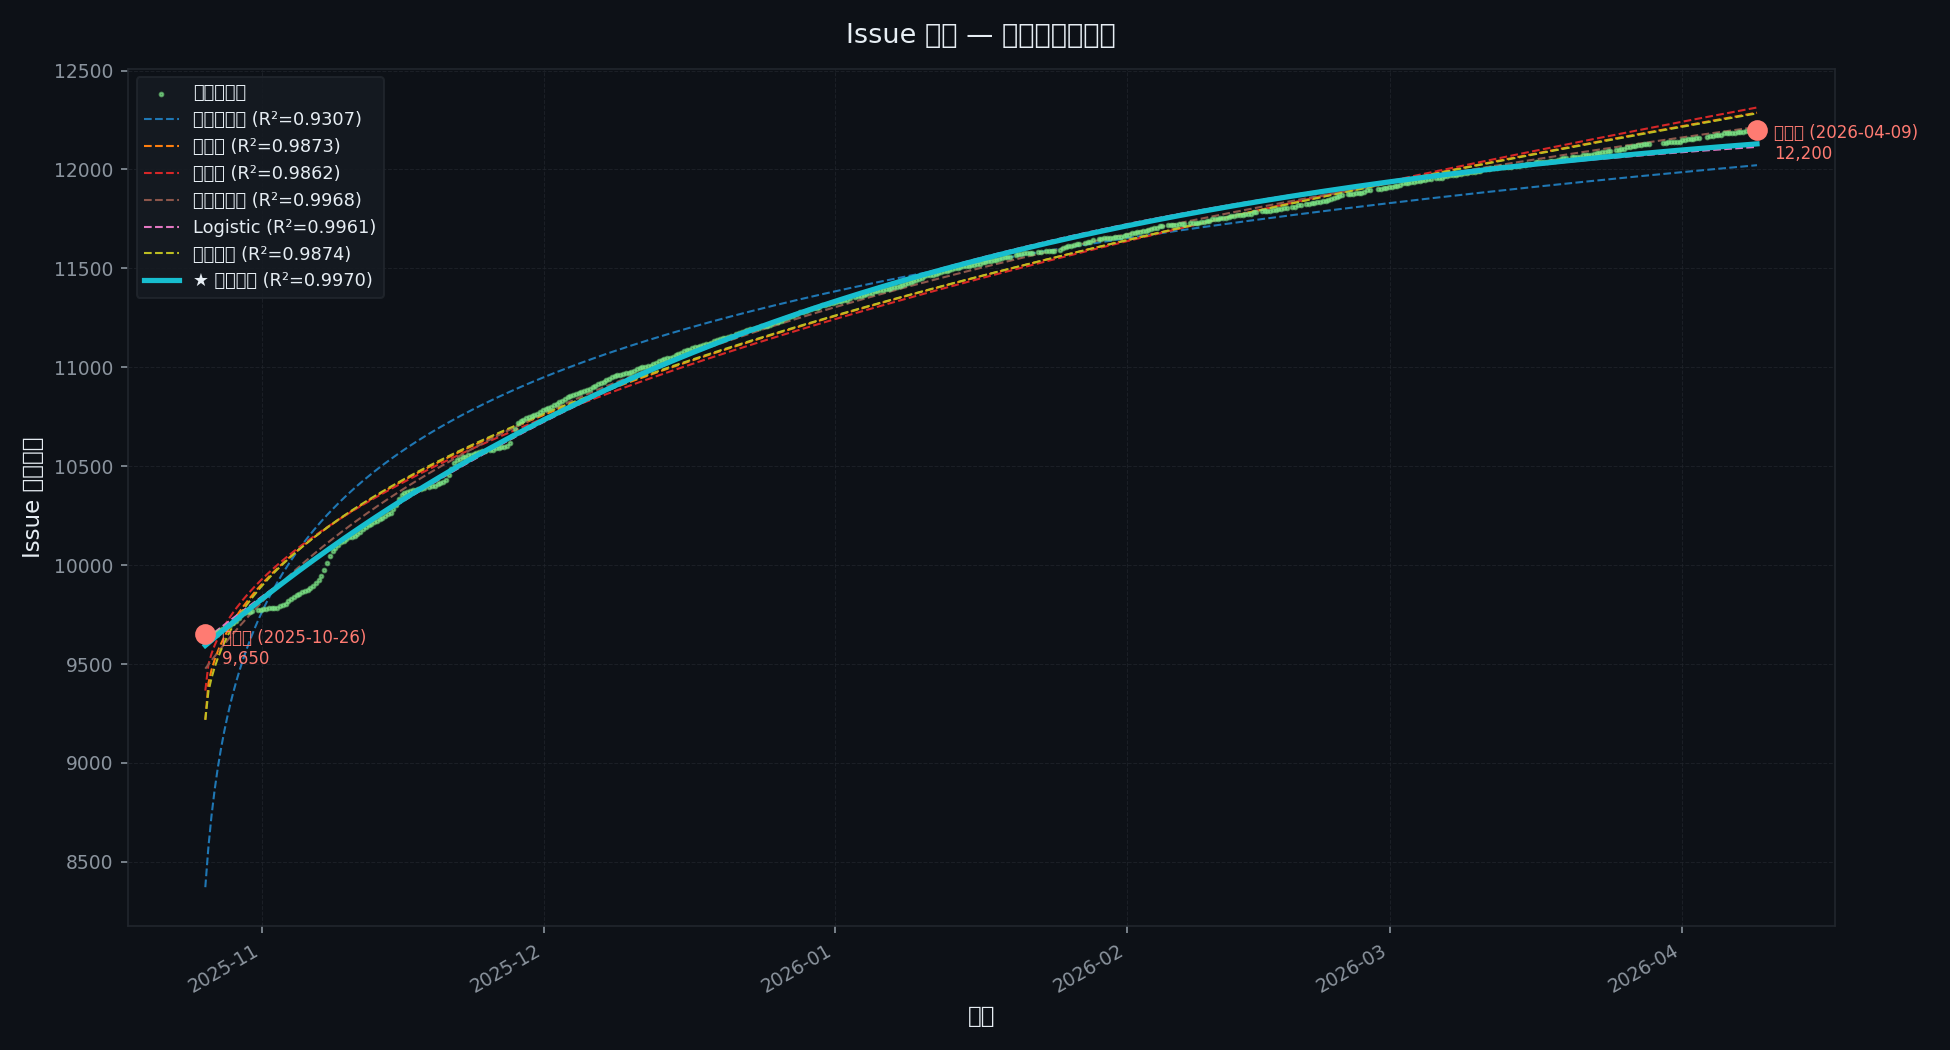
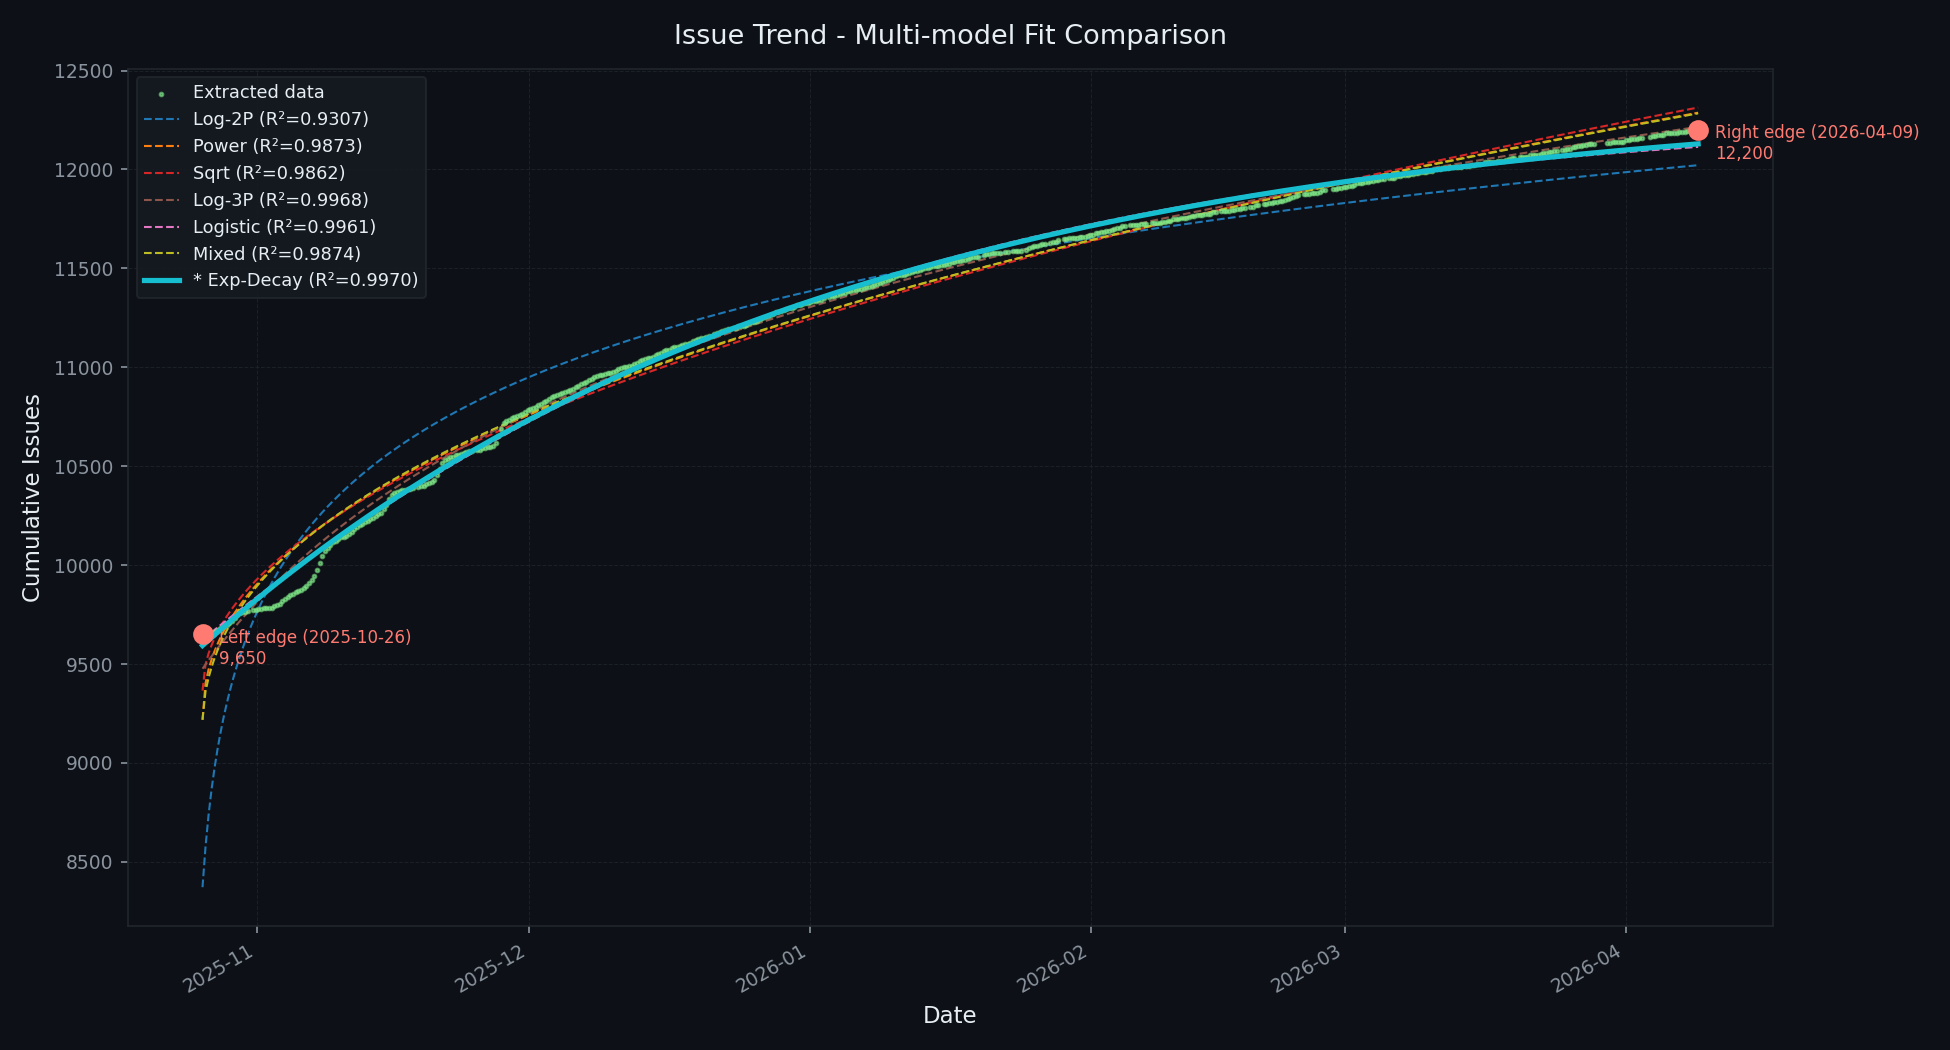
Fix Chinese font fallback; add GitHub Actions workflow and README
Agent-Logs-Url: https://github.com/RobinKool888/fortest/sessions/1ea51b34-3669-488e-a3a4-b965c724b992

diff --git a/issue_forecast.py b/issue_forecast.py
@@ -63,26 +63,46 @@ MUTED_TEXT  = "#8b949e"
 
 
 # ─────────────────────────────────────────────
-# 0. 字体配置（中文支持）
+# 0. Font setup — CJK-aware with English fallback
 # ─────────────────────────────────────────────
-def _setup_font():
-    candidates = [
-        "Noto Sans CJK SC", "WenQuanYi Micro Hei", "SimHei",
-        "PingFang SC", "Microsoft YaHei", "DejaVu Sans",
+def _setup_font() -> bool:
+    """
+    Try to configure a CJK-capable font.
+    Returns True if a CJK font was found, False otherwise.
+    When False, all chart text should use English to avoid □ boxes.
+    """
+    cjk_candidates = [
+        "Noto Sans CJK SC", "Noto Sans CJK TC",
+        "WenQuanYi Micro Hei", "WenQuanYi Zen Hei",
+        "SimHei", "SimSun", "PingFang SC", "Microsoft YaHei",
+        "Source Han Sans CN", "Source Han Sans SC",
     ]
     available = {f.name for f in fm.fontManager.ttflist}
-    for c in candidates:
+
+    for c in cjk_candidates:
         if c in available:
             rcParams["font.family"] = c
-            return
-    for f in fm.fontManager.ttflist:
-        if any(kw in f.name.lower() for kw in ("cjk", "chinese", "wqy", "noto")):
-            rcParams["font.family"] = f.name
-            return
-    rcParams["font.family"] = "DejaVu Sans"
+            return True
 
-_setup_font()
+    # Broader scan for any CJK font the system may have
+    for f in fm.fontManager.ttflist:
+        name_lower = f.name.lower()
+        if any(kw in name_lower for kw in ("cjk", "chinese", "wqy", "noto", "simsun", "simhei")):
+            rcParams["font.family"] = f.name
+            return True
+
+    # No CJK font found — fall back to default; use English labels in charts
+    rcParams["font.family"] = "DejaVu Sans"
+    return False
+
+
+_CJK_OK: bool = _setup_font()
 rcParams["axes.unicode_minus"] = False
+
+
+def _L(zh: str, en: str) -> str:
+    """Return the Chinese string when a CJK font is available, English otherwise."""
+    return zh if _CJK_OK else en
 
 
 # ─────────────────────────────────────────────
@@ -208,19 +228,19 @@ def model_exp_decay(t, a, b, c):
 
 def _make_models(y0: float, y1: float) -> dict:
     """
-    根据数据范围动态生成模型初始猜测值，提高拟合鲁棒性。
-    y0 = 数据起点值, y1 = 数据终点值
+    Build model definitions with initial guesses derived from the data range.
+    y0 = starting value, y1 = ending value
     """
-    delta = abs(y1 - y0)
-    t_half = 90  # 假设约 90 天到增量一半
+    delta  = abs(y1 - y0)
+    t_half = 90  # assume ~90 days to reach half the total increment
     return {
-        "两参数对数": (model_log2,    [y0, delta],               {}),
-        "幂函数":     (model_power,   [y0, delta * 0.5, 0.4],    {}),
-        "平方根":     (model_sqrt,    [y0, delta * 0.1],         {}),
-        "三参数对数": (model_log3,    [y0 * 0.6, delta, 5.0],    {}),
-        "Logistic":   (model_logistic,[y1 * 1.05, 0.015, t_half],{}),
-        "混合模型":   (model_mixed,   [y0, delta * 0.05, delta * 0.3], {}),
-        "减速指数":   (model_exp_decay,[y1 * 1.05, delta * 1.2, 0.015], {}),
+        _L("两参数对数", "Log-2P"):    (model_log2,       [y0, delta],                    {}),
+        _L("幂函数",     "Power"):     (model_power,      [y0, delta * 0.5, 0.4],         {}),
+        _L("平方根",     "Sqrt"):      (model_sqrt,       [y0, delta * 0.1],              {}),
+        _L("三参数对数", "Log-3P"):    (model_log3,       [y0 * 0.6, delta, 5.0],         {}),
+        "Logistic":                    (model_logistic,   [y1 * 1.05, 0.015, t_half],     {}),
+        _L("混合模型",   "Mixed"):     (model_mixed,      [y0, delta * 0.05, delta * 0.3],{}),
+        _L("减速指数",   "Exp-Decay"): (model_exp_decay,  [y1 * 1.05, delta * 1.2, 0.015],{}),
     }
 
 
@@ -378,12 +398,12 @@ def _plot_fit_comparison(
     _dark_axes(ax)
 
     ax.scatter(df["date"], y_vals, color=GREEN_LITE, s=3, alpha=0.6,
-               zorder=3, label="提取数据点")
+               zorder=3, label=_L("提取数据点", "Extracted data"))
 
     # 标注左右端锚点
     for d, c, lbl in [
-        (df["date"].iloc[0],  y_vals[0],  f"左端点 ({df['date'].iloc[0].date()})"),
-        (df["date"].iloc[-1], y_vals[-1], f"右端点 ({df['date'].iloc[-1].date()})"),
+        (df["date"].iloc[0],  y_vals[0],  _L(f"左端点 ({df['date'].iloc[0].date()})", f"Left edge ({df['date'].iloc[0].date()})")),
+        (df["date"].iloc[-1], y_vals[-1], _L(f"右端点 ({df['date'].iloc[-1].date()})", f"Right edge ({df['date'].iloc[-1].date()})")),
     ]:
         ax.scatter([d], [c], color="#ff7b72", s=80, zorder=5)
         ax.annotate(f"{lbl}\n{c:,.0f}", (d, c),
@@ -395,13 +415,13 @@ def _plot_fit_comparison(
         y_smooth = info["func"](t_smooth, *info["popt"])
         lw    = 2.5 if name == best_name else 1.0
         ls    = "-"  if name == best_name else "--"
-        label = f"{'★ ' if name == best_name else ''}{name} (R²={info['r2']:.4f})"
+        label = f"{'* ' if name == best_name else ''}{name} (R\u00b2={info['r2']:.4f})"
         ax.plot(smooth_dates, y_smooth, color=color, lw=lw, ls=ls,
                 label=label, zorder=4 if name == best_name else 2)
 
-    ax.set_xlabel("日期", fontsize=11)
-    ax.set_ylabel("Issue 累积数量", fontsize=11)
-    ax.set_title("Issue 趋势 — 多模型拟合对比", fontsize=13, pad=12)
+    ax.set_xlabel(_L("日期", "Date"), fontsize=11)
+    ax.set_ylabel(_L("Issue 累积数量", "Cumulative Issues"), fontsize=11)
+    ax.set_title(_L("Issue 趋势 — 多模型拟合对比", "Issue Trend - Multi-model Fit Comparison"), fontsize=13, pad=12)
     ax.legend(loc="upper left", fontsize=8.5,
               facecolor="#161b22", edgecolor=GRID_COLOR,
               labelcolor=TEXT_COLOR, framealpha=0.85)
@@ -433,8 +453,8 @@ def _plot_model_r2_bar(results: dict, out_path: str):
                 f"{val:.4f}", va="center", ha="right",
                 color=DARK_BG, fontsize=9, fontweight="bold")
     ax.set_xlim(min(r2vals_s) * 0.98, 1.005)
-    ax.set_xlabel("R²", fontsize=10)
-    ax.set_title("各模型拟合优度对比 (R²)", fontsize=12)
+    ax.set_xlabel(_L("R²", "R\u00b2"), fontsize=10)
+    ax.set_title(_L("各模型拟合优度对比 (R²)", "Model Goodness-of-Fit Comparison (R\u00b2)"), fontsize=12)
     fig.tight_layout()
     fig.savefig(out_path, dpi=150, facecolor=DARK_BG)
     plt.close(fig)
@@ -471,9 +491,9 @@ def _plot_forecast(
     pred_mask = np.array(dates_all) >= ref_date
 
     ax.plot(np.array(dates_all)[hist_mask], y_all[hist_mask],
-            color=GREEN_LINE, lw=2, label=f"历史拟合 ({best_name})")
+            color=GREEN_LINE, lw=2, label=_L(f"历史拟合 ({best_name})", f"Historical fit ({best_name})"))
     ax.plot(np.array(dates_all)[pred_mask], y_all[pred_mask],
-            color=CYAN_LINE, lw=2, ls="--", label="预测趋势")
+            color=CYAN_LINE, lw=2, ls="--", label=_L("预测趋势", "Forecast trend"))
 
     ax.scatter(df["date"], y_vals, color=GREEN_LITE, s=3, alpha=0.4, zorder=3)
 
@@ -489,12 +509,15 @@ def _plot_forecast(
         )
 
     ax.axvline(ref_date, color=ORANGE_LINE, lw=1, ls=":", alpha=0.8,
-               label=f"预测起点 ({ref_date.date()})")
+               label=_L(f"预测起点 ({ref_date.date()})", f"Forecast start ({ref_date.date()})"))
 
-    ax.set_xlabel("日期", fontsize=11)
-    ax.set_ylabel("Issue 累积数量", fontsize=11)
+    ax.set_xlabel(_L("日期", "Date"), fontsize=11)
+    ax.set_ylabel(_L("Issue 累积数量", "Cumulative Issues"), fontsize=11)
     ax.set_title(
-        f"Issue 趋势预测  [{best_name}  R²={info['r2']:.4f}]",
+        _L(
+            f"Issue 趋势预测  [{best_name}  R\u00b2={info['r2']:.4f}]",
+            f"Issue Trend Forecast  [{best_name}  R\u00b2={info['r2']:.4f}]",
+        ),
         fontsize=13, pad=12,
     )
     ax.legend(loc="upper left", fontsize=9,
@@ -507,7 +530,7 @@ def _plot_forecast(
     ax2.tick_params(colors=MUTED_TEXT, labelsize=8)
     ylim = ax.get_ylim()
     ax2.set_ylim([(y - ref_count) / ref_count * 100 for y in ylim])
-    ax2.set_ylabel("相对增幅 (%)", color=MUTED_TEXT, fontsize=9)
+    ax2.set_ylabel(_L("相对增幅 (%)", "Relative Growth (%)"), color=MUTED_TEXT, fontsize=9)
     ax2.spines["right"].set_edgecolor(GRID_COLOR)
 
     fig.autofmt_xdate()

diff --git a/README.md b/README.md
@@ -1,0 +1,133 @@
+# Issue Trend Forecast
+
+Digitise a cumulative-issue curve image, fit multiple growth models,
+and generate a numeric + visual forecast.
+
+---
+
+## How it works
+
+| Step | What happens | Output file(s) |
+|------|-------------|----------------|
+| **1 – Extract** | Green-curve pixels are detected and mapped to `(date, count)` using the two edge calibration points you supply | `extracted_data.csv` |
+| **2 – Fit** | Seven growth models are fit; the best R² wins | `fit_comparison.png`, `model_r2_comparison.png` |
+| **3 – Forecast** | All models predict future counts; the winner is charted | `predictions.csv`, `forecast.png` |
+
+---
+
+## Option A — Local deployment
+
+### Prerequisites
+
+```bash
+pip install numpy scipy matplotlib pillow pandas
+```
+
+For Chinese labels in charts, install a CJK font first:
+
+```bash
+# Ubuntu / Debian
+sudo apt-get install fonts-noto-cjk
+
+# macOS (Homebrew)
+brew install --cask font-noto-sans-cjk
+
+# Windows
+# Download and install "Noto Sans CJK SC" from https://fonts.google.com/noto
+```
+
+> **No CJK font?** The script automatically falls back to English labels —
+> no manual configuration needed.
+
+### Run
+
+```bash
+python issue_forecast.py \
+    --image       curve.png \
+    --left-date   2025-10-26 \
+    --left-count  9650 \
+    --right-date  2026-04-09 \
+    --right-count 12200
+```
+
+All five output files are written to the same directory as the image.
+
+### Full argument reference
+
+| Argument | Required | Default | Description |
+|----------|----------|---------|-------------|
+| `--image` | No | `curve.png` (next to script) | Path to the curve PNG |
+| `--left-date` | **Yes** | — | Date at the left edge of the X-axis (`YYYY-MM-DD`) |
+| `--left-count` | **Yes** | — | Issue count at the left edge |
+| `--right-date` | **Yes** | — | Date at the right edge of the X-axis (`YYYY-MM-DD`) |
+| `--right-count` | **Yes** | — | Issue count at the right edge |
+| `--today` | No | `right-date` | Forecast reference / "today" date |
+| `--out-dir` | No | image directory | Directory where outputs are saved |
+| `--future-days` | No | `30 60 90 180 365 730` | Space-separated list of forecast horizons (days) |
+
+---
+
+## Option B — GitHub Actions (online, no local install)
+
+### One-time setup
+
+1. **Push your curve image** to the repository root (default name: `curve.png`).  
+   If you use a different path, pass it via the `image_path` input.
+
+2. The workflow file is already at `.github/workflows/forecast.yml` — no
+   further configuration is needed.
+
+### Running the workflow
+
+1. Go to the repository on GitHub.
+2. Click **Actions** → **Issue Trend Forecast** → **Run workflow**.
+3. Fill in the inputs:
+
+   | Input | Required | Example |
+   |-------|----------|---------|
+   | Left-edge date | **Yes** | `2025-10-26` |
+   | Left-edge count | **Yes** | `9650` |
+   | Right-edge date | **Yes** | `2026-04-09` |
+   | Right-edge count | **Yes** | `12200` |
+   | Forecast date (`today`) | No | `2026-04-14` |
+   | Forecast horizons | No | `30 60 90 180 365 730` |
+   | Image path in repo | No | `curve.png` |
+
+4. Click **Run workflow**.
+
+### Downloading the results
+
+Once the job finishes (usually under 2 minutes):
+
+1. Click the completed run.
+2. Scroll to the **Artifacts** section at the bottom.
+3. Click **forecast-outputs** to download a ZIP containing all five files.
+
+```
+forecast-outputs.zip
+├── extracted_data.csv        ← Step 1: raw digitised curve data
+├── fit_comparison.png        ← Step 2: all-model overlay chart
+├── model_r2_comparison.png   ← Step 2: R² bar chart
+├── predictions.csv           ← Step 3: numeric forecast table
+└── forecast.png              ← Step 3: best-model forecast chart
+```
+
+Artifacts are retained for **30 days**.
+
+---
+
+## Tips
+
+- **Square boxes instead of Chinese text?**  
+  Install a CJK font (see above) or run on GitHub Actions which installs
+  `fonts-noto-cjk` automatically.
+
+- **Curve not detected?**  
+  The extractor looks for pixels where `G > 80` and `R, B < 50` (pure green).
+  Adjust `GREEN_CHANNEL_MIN` / `RED_BLUE_CHANNEL_MAX` at the top of
+  `issue_forecast.py` if your chart uses a different shade.
+
+- **Custom forecast horizons:**  
+  ```bash
+  --future-days 7 14 30 60
+  ```
